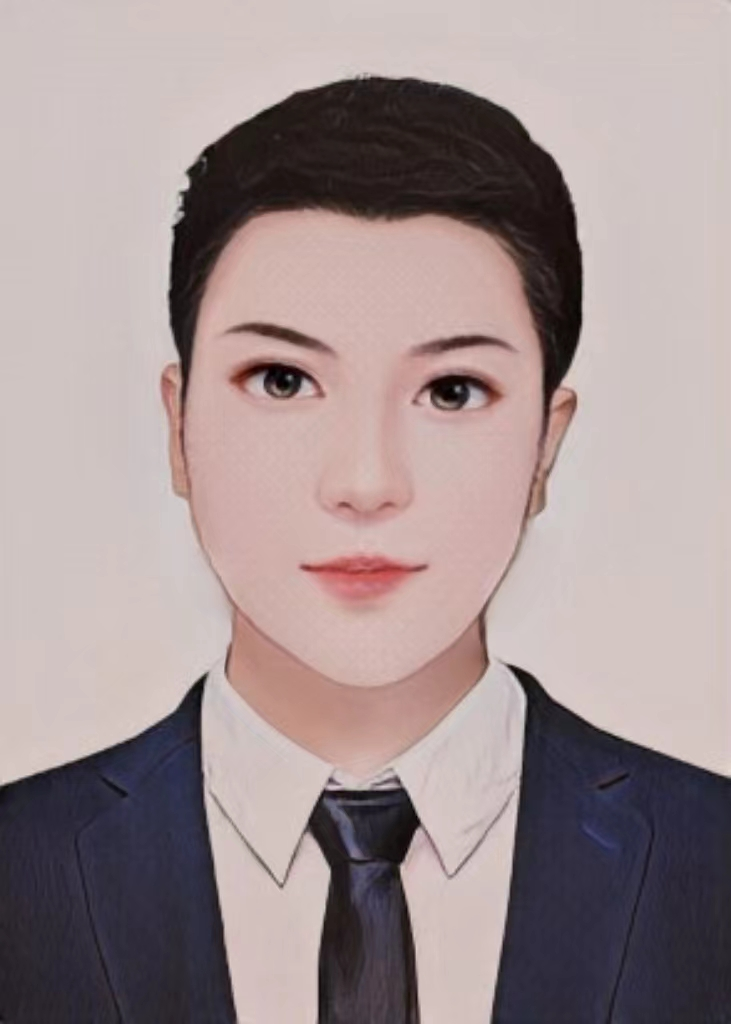
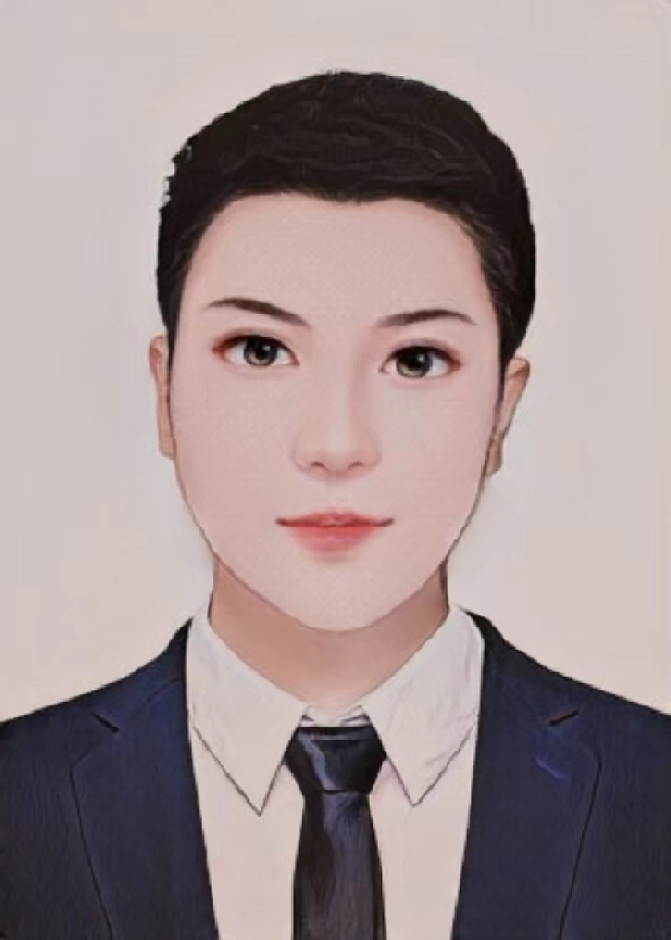
v998

diff --git a/index.html b/index.html
@@ -121,7 +121,7 @@
     <!-- Photo -->
     <div class="container px-5">
         <div id="avatar">
-            <img height="940" width="725" class="shadow" src="static/assets/img/photo.png">
+            <img  class="shadow" src="static/assets/img/photo.png"/>
         </div>
     </div>
     <!-- Photo -->
